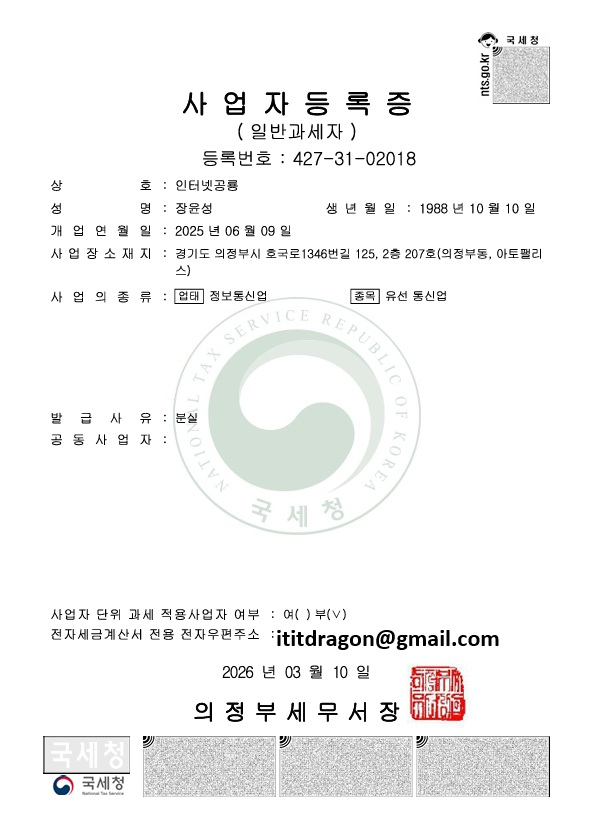
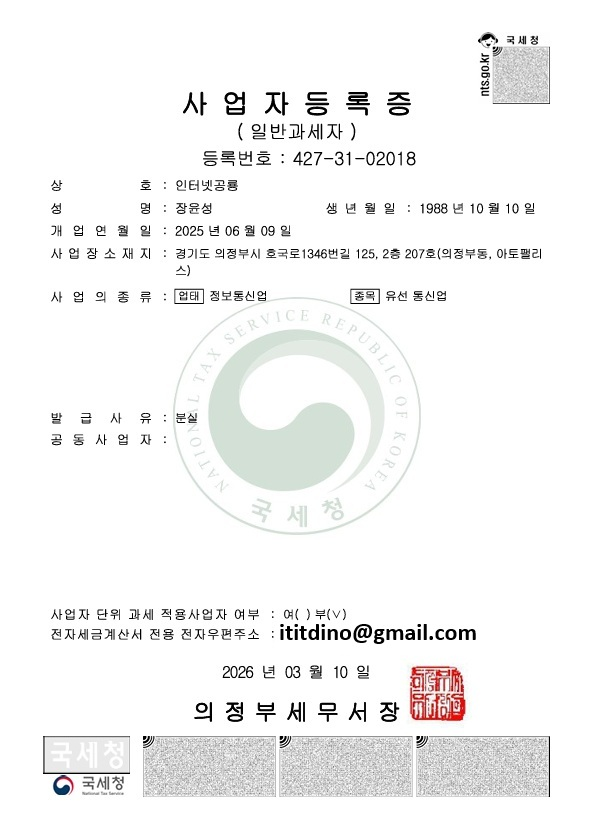
Remove (예시) from heading, update business license image

Changed region(s): [[0.4561, 0.7429, 0.8514, 0.7738]]

diff --git a/src/app/(site)/page.tsx b/src/app/(site)/page.tsx
@@ -187,7 +187,7 @@ export default async function HomePage() {
                 fontSize: "var(--design-recent-heading-font-size, 32px)",
                 color: "var(--design-recent-heading-color, #2C3E50)"
               }}
-            >신청 현황 <strong>(예시)</strong></h2>
+            >신청 현황</h2>
             <p className="mt-3 text-brand-slate">인터넷공룡을 통해 이렇게 신청하실 수 있습니다.</p>
           </div>
           <RecentApplications />
